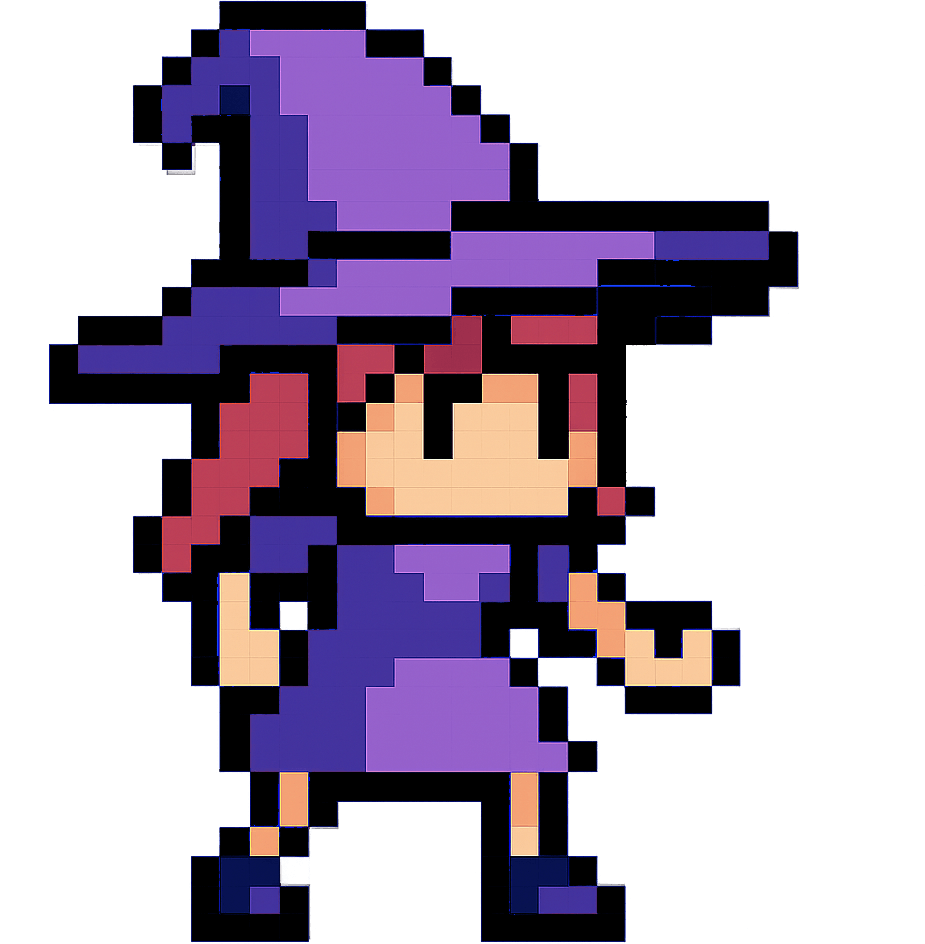
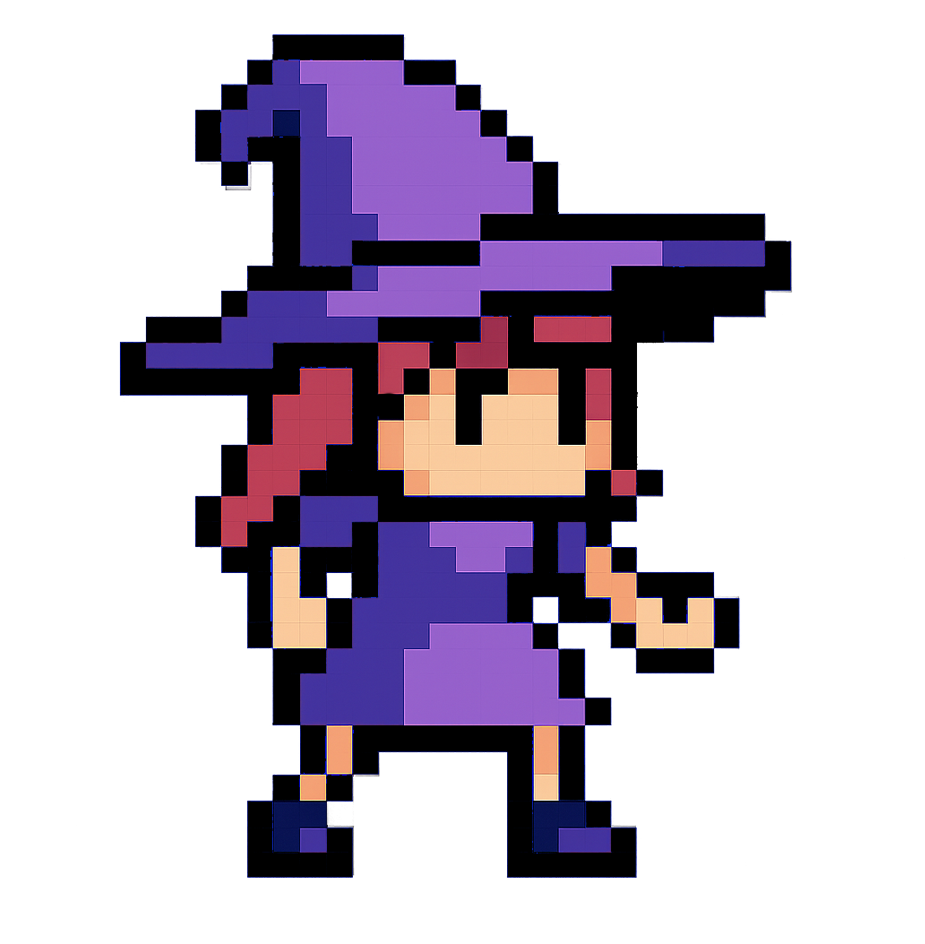
add loader for game.jsx, update witch.png size with others

diff --git a/frontend/src/pages/Game.jsx b/frontend/src/pages/Game.jsx
@@ -1,8 +1,9 @@
 import { useState, useEffect } from "react";
-import { getMe }   from "@/api/player";
-import UserCard    from "@/components/UserCard";
+import { getMe } from "@/api/player";
+import UserCard from "@/components/UserCard";
 import useMatchmaking from "@/hooks/useMatchmaking";
 import { useNavigate } from "react-router-dom";
+import Loader from "@/components/Loader";
 
 export default function Game() {
   const nav = useNavigate();
@@ -30,15 +31,19 @@ export default function Game() {
     () => nav("/game")
   );
 
+  if (!me) {
+    return <Loader />;
+  }
+
   return (
     <div className="p-8 flex flex-col items-center gap-8">
       <h1 className="text-3xl font-semibold">Game Lobby</h1>
 
       <UserCard
-        name={me?.display_name}
-        elo={me?.elo}
-        type={me?.type}
-        total_won={me?.total_won}
+        name={me.display_name}
+        elo={me.elo}
+        type={me.type}
+        total_won={me.total_won}
         showChangeTypeButton={true}
         onTypeChanged={fetchMe}
       />
